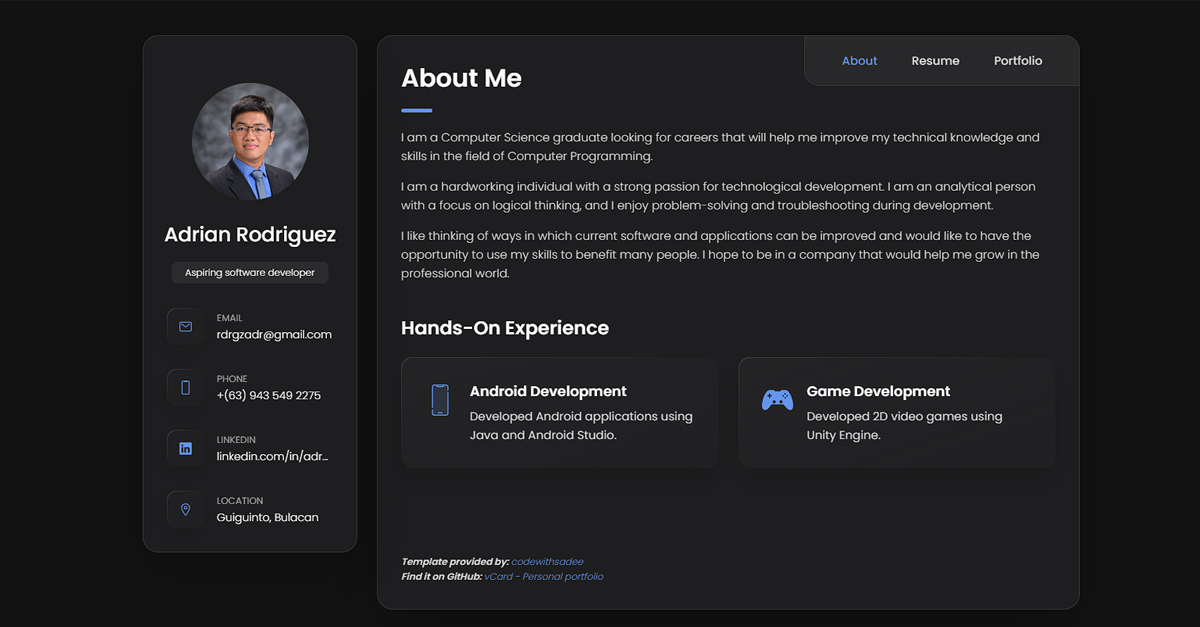
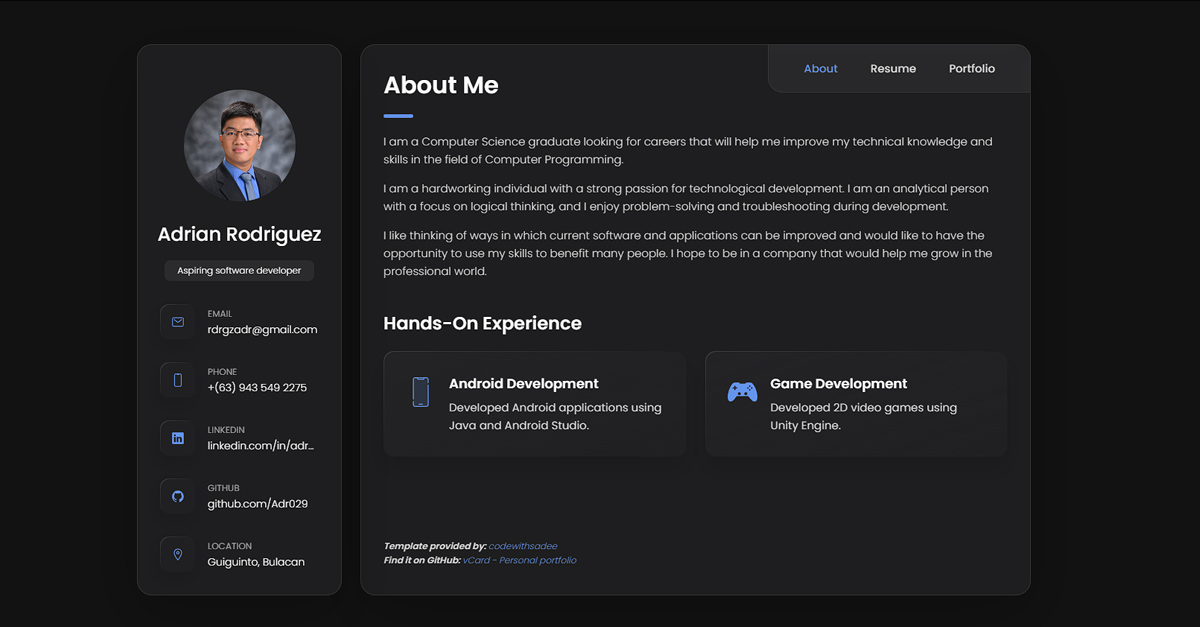
updated contact info

diff --git a/index.html b/index.html
@@ -117,6 +117,20 @@
           <li class="contact-item">
 
             <div class="icon-box">
+              <ion-icon name="logo-github"></ion-icon>           
+             </div>
+
+            <div class="contact-info">
+              <p class="contact-title">GitHub</p>
+
+             <a href = "https://github.com/Adr029" class = "contact-link">github.com/Adr029</a>
+            </div>
+
+          </li>
+
+          <li class="contact-item">
+
+            <div class="icon-box">
               <ion-icon name="location-outline"></ion-icon>
             </div>
 
